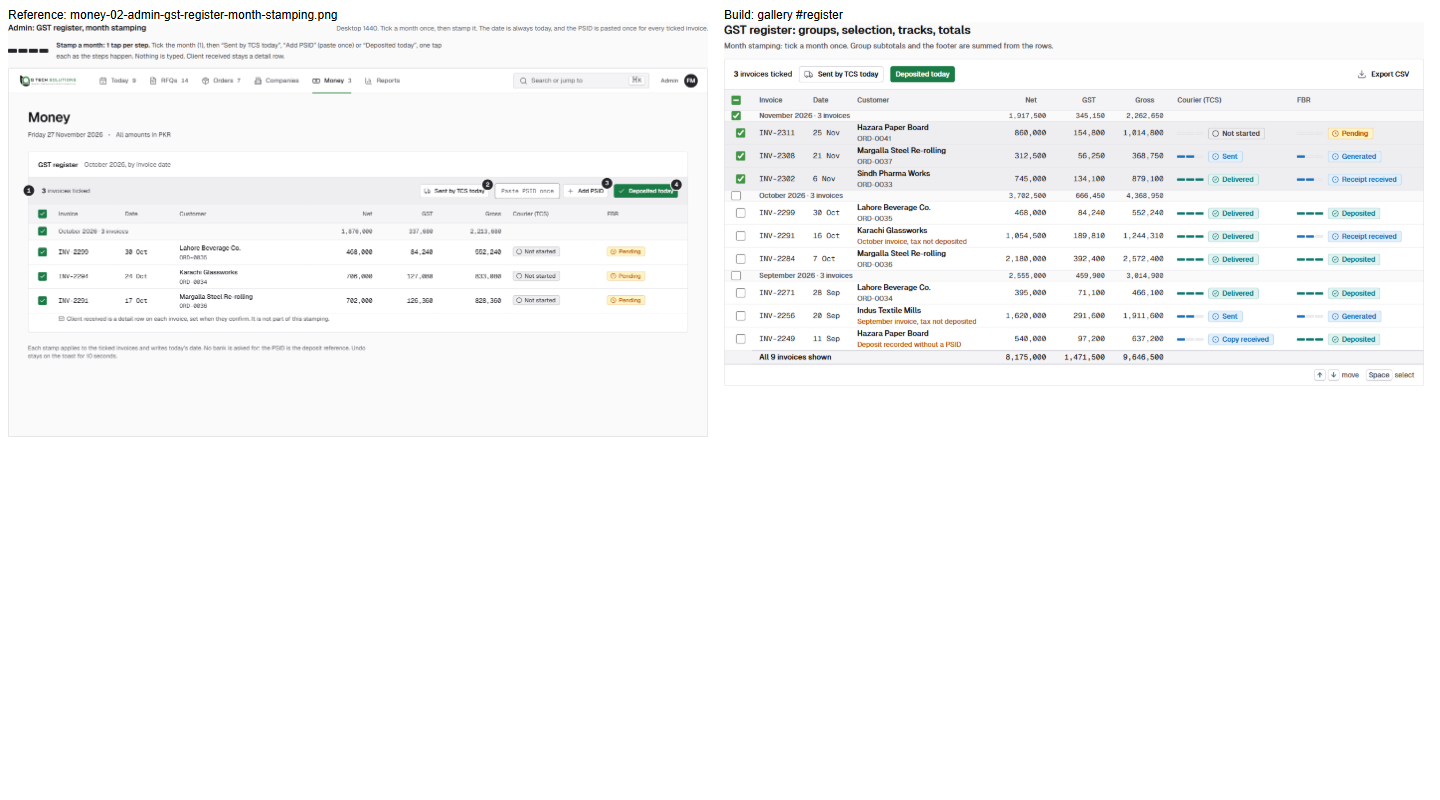
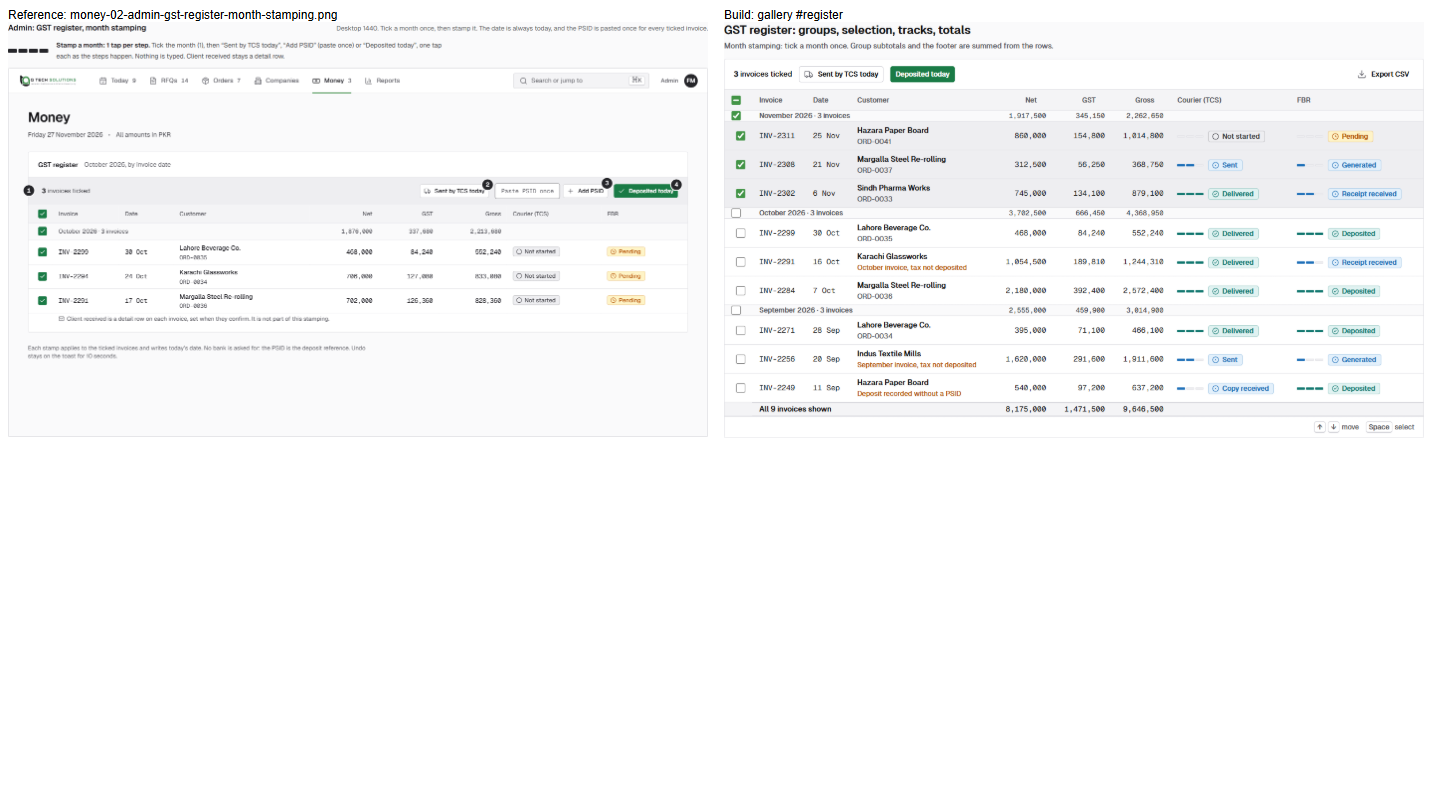
fix(ui): SumBar headline rounds to whole rupees by default, ExactEquation line, 48px two-line rows

Changed region(s): [[0.5, 0.1562, 0.9688, 0.5625]]

diff --git a/src/ui/SumBar.tsx b/src/ui/SumBar.tsx
@@ -3,7 +3,7 @@ import { CircleAlert } from 'lucide-react'
 import { cn } from '@/lib/utils'
 import { Icon } from '@/ui/Icon'
 import { Money } from '@/ui/Money'
-import { formatPaisa, paisaToFixed, toPaisa, type Amount } from '@/lib/money'
+import { formatPaisa, paisaToFixed, toPaisa, type Amount, type PaisaMode } from '@/lib/money'
 
 const abs = (p: bigint) => (p < 0n ? -p : p)
 
@@ -21,6 +21,8 @@ export interface SumBarItem {
   /** One line of context: "6 payments received". */
   sub?: ReactNode
   provisional?: boolean
+  /** Headline rounding. Default 'never' (whole rupees, as in the approved mockup); the exact paisa stays in the rows and the equation line. */
+  paisa?: PaisaMode
 }
 
 export function SumBar({ items, label, className }: { items: SumBarItem[]; label: string; className?: string }) {
@@ -38,7 +40,7 @@ export function SumBar({ items, label, className }: { items: SumBarItem[]; label
           {item.count !== undefined ? (
             <span className="num text-xl font-medium tracking-snug">{item.count}</span>
           ) : (
-            <Money value={item.amount} size="xl" provisional={item.provisional} />
+            <Money value={item.amount} size="xl" provisional={item.provisional} paisa={item.paisa ?? 'never'} />
           )}
           {item.sub ? <span className="text-xs text-fg-muted">{item.sub}</span> : null}
         </div>
@@ -91,5 +93,21 @@ export function AfterDrawings({ result, notInPnl, afterDrawings, className }: Af
         </dd>
       </div>
     </dl>
+  )
+}
+
+/*
+ * ExactEquation: the small mono line under a SumBar (money-07): the exact figures
+ * behind the rounded headlines, "2,841,150 = 2,280,635.60 net + 410,514.40 GST + 150,000 not yet split".
+ * The parts are summed in paisa; if they do not add up to the total, the line says so instead of printing a false equation.
+ */
+export function ExactEquation({ total, parts, className }: { total: Amount; parts: Array<{ amount: Amount; label: string }>; className?: string }) {
+  const sum = parts.reduce((n, p) => n + toPaisa(p.amount), 0n)
+  const ok = sum === toPaisa(total)
+  return (
+    <p data-mismatch={ok ? undefined : ''} className={cn('num text-xs', ok ? 'text-fg-muted' : 'text-tone-warning-fg', className)}>
+      {formatPaisa(toPaisa(total))} = {parts.map(p => `${formatPaisa(toPaisa(p.amount))} ${p.label}`).join(' + ')}
+      {ok ? '' : ` (parts add to ${formatPaisa(sum)})`}
+    </p>
   )
 }

diff --git a/src/dev/gallery-u04.tsx b/src/dev/gallery-u04.tsx
@@ -13,7 +13,7 @@ import { Button } from '@/ui/Button'
 import { Margin, Money, MoneyFx, NetGstGross } from '@/ui/Money'
 import { StatusBadge } from '@/ui/StatusBadge'
 import { StatusTrack } from '@/ui/StatusTrack'
-import { AfterDrawings, SumBar } from '@/ui/SumBar'
+import { AfterDrawings, ExactEquation, SumBar } from '@/ui/SumBar'
 import { Tag } from '@/ui/Tag'
 import { Icon } from '@/ui/Icon'
 import { formatDay } from '@/lib/formatDay'
@@ -191,6 +191,7 @@ function Gallery() {
             { label: 'Money out', amount: '1313300', sub: '7 expenses paid' },
           ]}
         />
+        <ExactEquation total="2841150" parts={[{ amount: "2280635.60", label: "net" }, { amount: "410514.40", label: "GST" }, { amount: "150000", label: "not yet split" }]} />
         <div className="max-w-[560px]"><AfterDrawings result="2280635.60" notInPnl="300000" /></div>
       </Section>
 
@@ -206,7 +207,7 @@ function Gallery() {
       </Section>
 
       <Section id="register" title="GST register: groups, selection, tracks, totals" note="Month stamping: tick a month once. Group subtotals and the footer are summed from the rows.">
-        <DataTable
+        <DataTable twoLine
           label="GST register"
           columns={invCols}
           rows={INV}
@@ -220,11 +221,11 @@ function Gallery() {
       </Section>
 
       <Section id="cash" title="Cash month" note="Money in by payment date, with the unresolved payment set apart.">
-        <DataTable label="Money in" columns={payCols} rows={PAY} getRowId={r => r.id} footerLabel="Total" />
+        <DataTable twoLine label="Money in" columns={payCols} rows={PAY} getRowId={r => r.id} footerLabel="Total" />
       </Section>
 
       <Section id="margins" title="Order margins" note="Only costs-complete orders are totalled. Provisional margins carry dashed underlines.">
-        <DataTable
+        <DataTable twoLine
           label="Order margins"
           columns={ordCols.map(c => (['net', 'expected', 'actual', 'margin'].includes(c.id) ? { ...c, total: (rows: Ord[]) => {
             const done = rows.filter(r => r.state === 'final')

diff --git a/src/ui/DataTable.tsx b/src/ui/DataTable.tsx
@@ -81,6 +81,8 @@ export interface DataTableProps<T> {
   /** Scroll height once virtualised. Default 70vh. */
   maxHeight?: string
   virtualAfter?: number
+  /** Rows hold two-line cells (name over reference): 48 px as in the mockups. Required for virtualised tables with two-line cells. */
+  twoLine?: boolean
   className?: string
 }
 
@@ -104,6 +106,7 @@ export function DataTable<T>(props: DataTableProps<T>) {
     empty,
     maxHeight = '70vh',
     virtualAfter = 80,
+    twoLine,
     className,
   } = props
 
@@ -150,7 +153,7 @@ export function DataTable<T>(props: DataTableProps<T>) {
 
   // ---- windowing ----------------------------------------------------------
   const coarse = typeof window !== 'undefined' && !!window.matchMedia?.('(pointer: coarse)').matches
-  const rowH = coarse ? 48 : density === 'compact' ? 32 : 40
+  const rowH = coarse || twoLine ? 48 : density === 'compact' ? 32 : 40
   const virtual = items.length > virtualAfter
   const offsets = useMemo(() => {
     const o = new Array<number>(items.length + 1)
@@ -325,7 +328,7 @@ export function DataTable<T>(props: DataTableProps<T>) {
   const colCount = columns.length + (selection ? 1 : 0)
   const alignRight = (c: Column<T>) => (c.align ?? (c.kind === 'money' || c.kind === 'num' ? 'right' : 'left')) === 'right'
   const monoCell = (c: Column<T>) => c.kind === 'money' || c.kind === 'num' || c.kind === 'date'
-  const cellBase = 'h-row whitespace-nowrap border-b border-line px-[var(--cell-px)] first:pl-5 last:pr-5'
+  const cellBase = 'h-row whitespace-nowrap border-b border-line px-[var(--cell-px)] py-[6px] first:pl-5 last:pr-5'
   const hide = (c: Column<T>) => (c.hideBelowMd ? 'hidden md:table-cell' : '')
 
   const toolbarNode = typeof toolbar === 'function' ? toolbar({ selectedCount }) : toolbar

diff --git a/src/ui/Money.test.tsx b/src/ui/Money.test.tsx
@@ -1,7 +1,7 @@
 import { renderToStaticMarkup } from 'react-dom/server'
 import { describe, expect, it } from 'vitest'
 import { Margin, Money, MoneyFx, NetGstGross } from '@/ui/Money'
-import { AfterDrawings, SumBar } from '@/ui/SumBar'
+import { AfterDrawings, ExactEquation, SumBar } from '@/ui/SumBar'
 import { StatusBadge } from '@/ui/StatusBadge'
 import { StatusTrack } from '@/ui/StatusTrack'
 import type { MarginState } from '@/lib/money'
@@ -135,5 +135,21 @@ describe('a margin is never shown without the provisional mark when costs are in
 
   it('a negative margin says "below cost" in words as well as colour', () => {
     expect(text(<Margin value="-84500" state="final" />)).toContain('below cost')
+  })
+})
+
+describe('SumBar headline (approved mockup: whole rupees; exact paisa lives in the rows and the equation)', () => {
+  const bar = <SumBar label="x" items={[{ label: 'Net in', amount: '2280635.60' }, { label: 'GST', amount: '410514.40', paisa: 'always' }]} />
+  it('rounds to whole rupees by default and can be told otherwise', () => {
+    const t = text(bar)
+    expect(t).toContain('2,280,636')
+    expect(t).not.toContain('2,280,635.60')
+    expect(t).toContain('410,514.40')
+  })
+
+  it('the exact equation adds up to the paisa, or says it does not', () => {
+    const parts = [{ amount: '2280635.60', label: 'net' }, { amount: '410514.40', label: 'GST' }, { amount: '150000', label: 'not yet split' }]
+    expect(text(<ExactEquation total="2841150" parts={parts} />)).toBe('2,841,150 = 2,280,635.60 net + 410,514.40 GST + 150,000 not yet split')
+    expect(text(<ExactEquation total="2841151" parts={parts} />)).toContain('parts add to 2,841,150')
   })
 })
